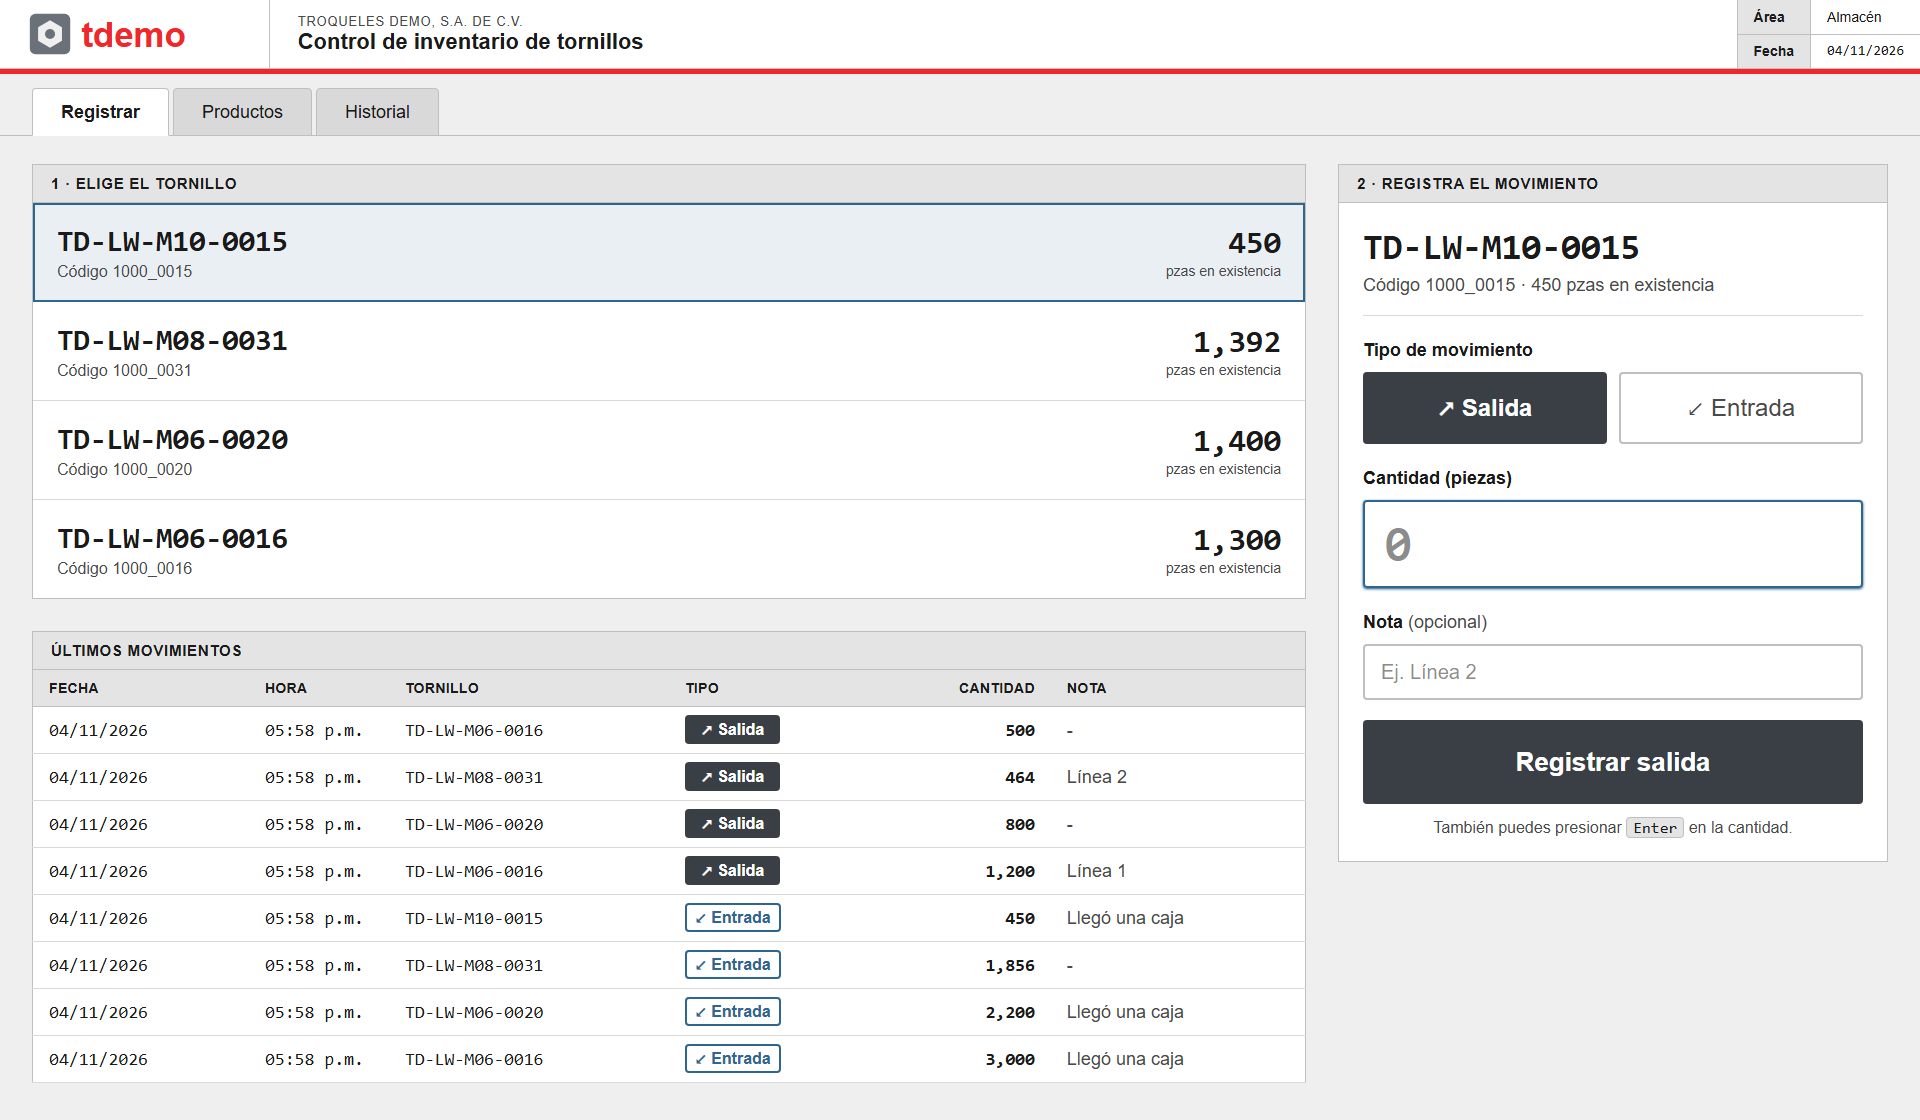
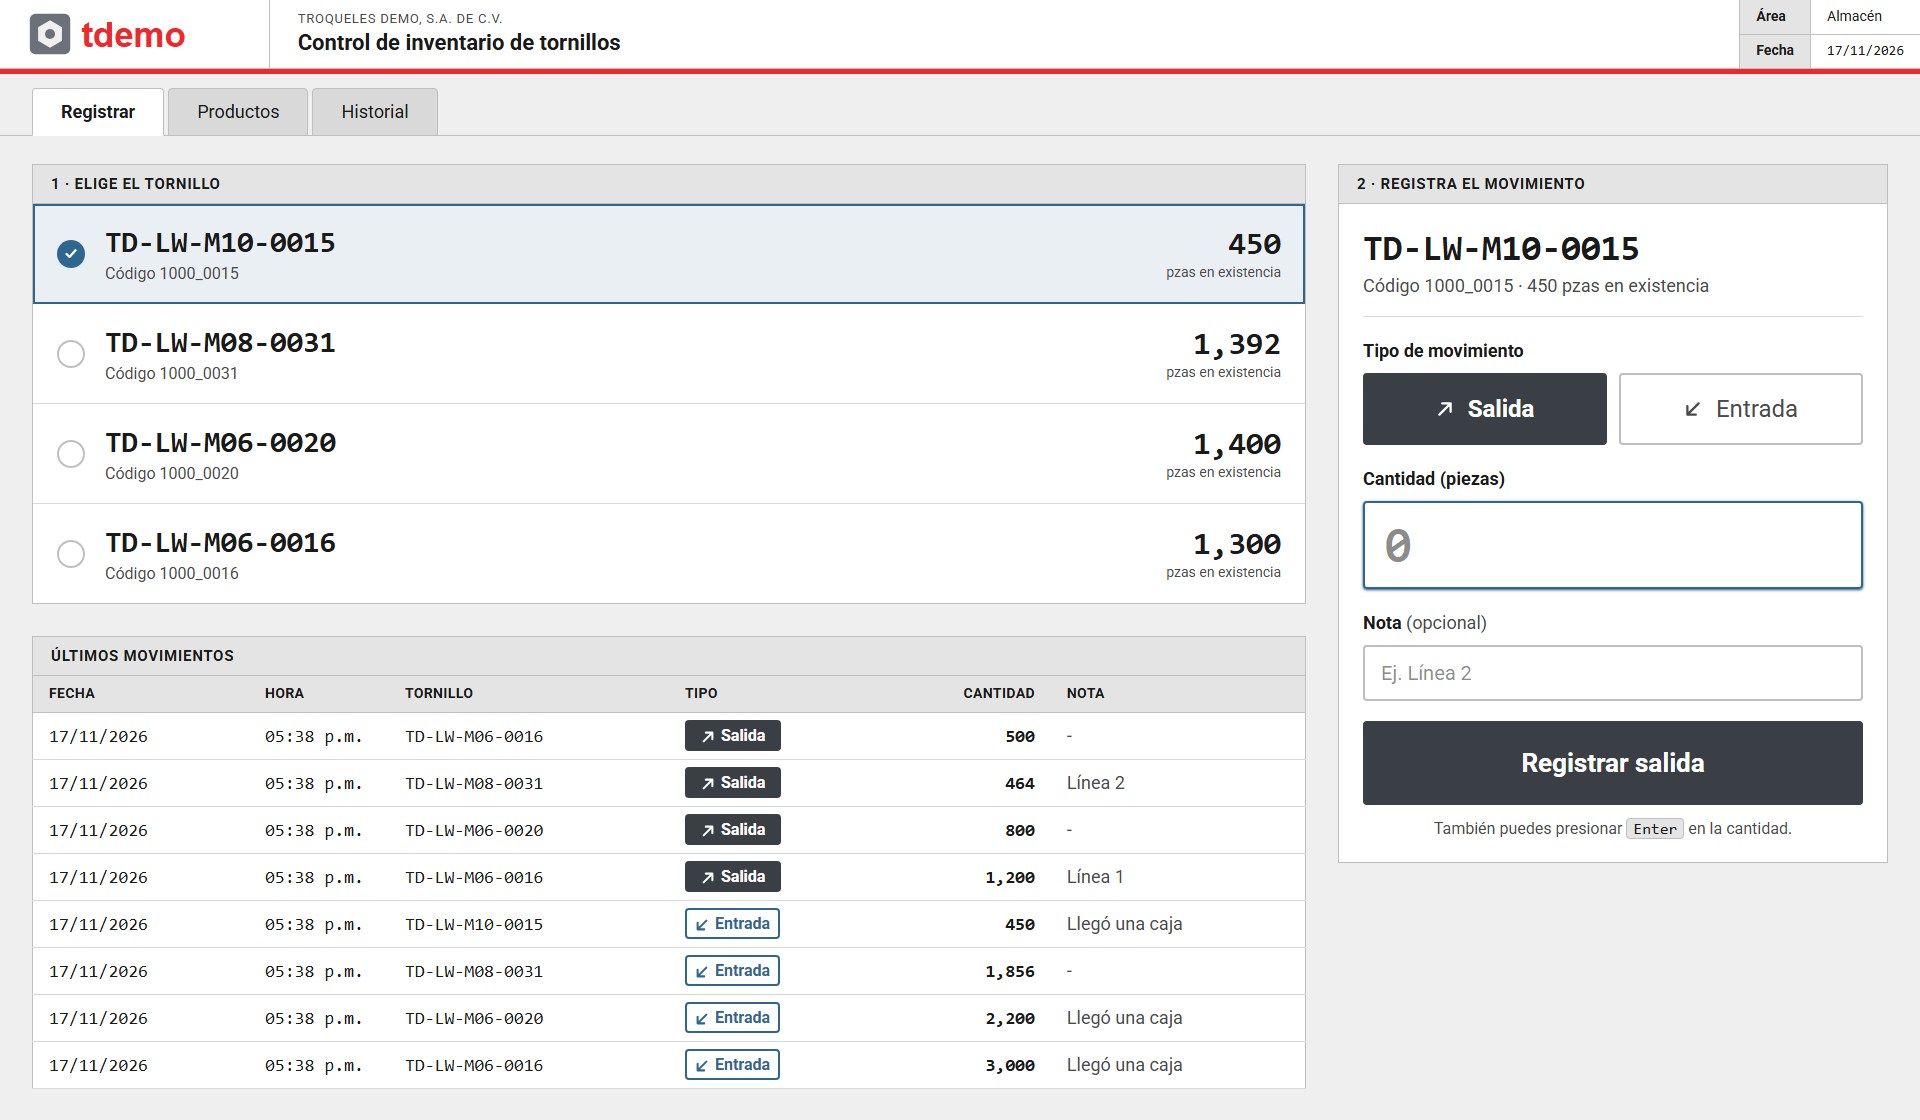
docs: update the README screenshot

diff --git a/README.md b/README.md
@@ -6,7 +6,7 @@ A web app to manage the screw inventory of a manufacturing plant's warehouse, bu
 
 It is the frontend of [inventory-management-api](https://github.com/TarekM-7/inventory-management-api), a Node.js REST API with PostgreSQL. This is a practice project I built after Project 10 of the Udemy course [React de Principiante a Experto](https://www.udemy.com/course/react-de-principiante-a-experto-creando-mas-de-10-aplicaciones/): it repeats the course's React client pattern with a new domain, and fixes what the course left out, like showing errors on screen and handling the loading and empty states. The company in the header, **Troqueles Demo**, is fictional.
 
-![The Registrar screen under a "Troqueles Demo" header with a red stripe and three tabs: on the left, four screws with their Odoo name, code and stock, the first one selected in blue, and a table of the latest entries and exits; on the right, the selected screw with the Salida and Entrada buttons, a large quantity field, an optional note and a dark "Registrar salida" button](docs/screenshot.png)
+![The Registrar screen under a "Troqueles Demo" header with a red stripe and three tabs: on the left, four screws with their Odoo name, code and stock, the first one selected in blue with a checkmark, and a table of the latest entries and exits with arrow labels; on the right, the selected screw with the Salida and Entrada buttons with arrow icons, a large quantity field, an optional note and a dark "Registrar salida" button](docs/screenshot.png)
 
 ## Features
 
